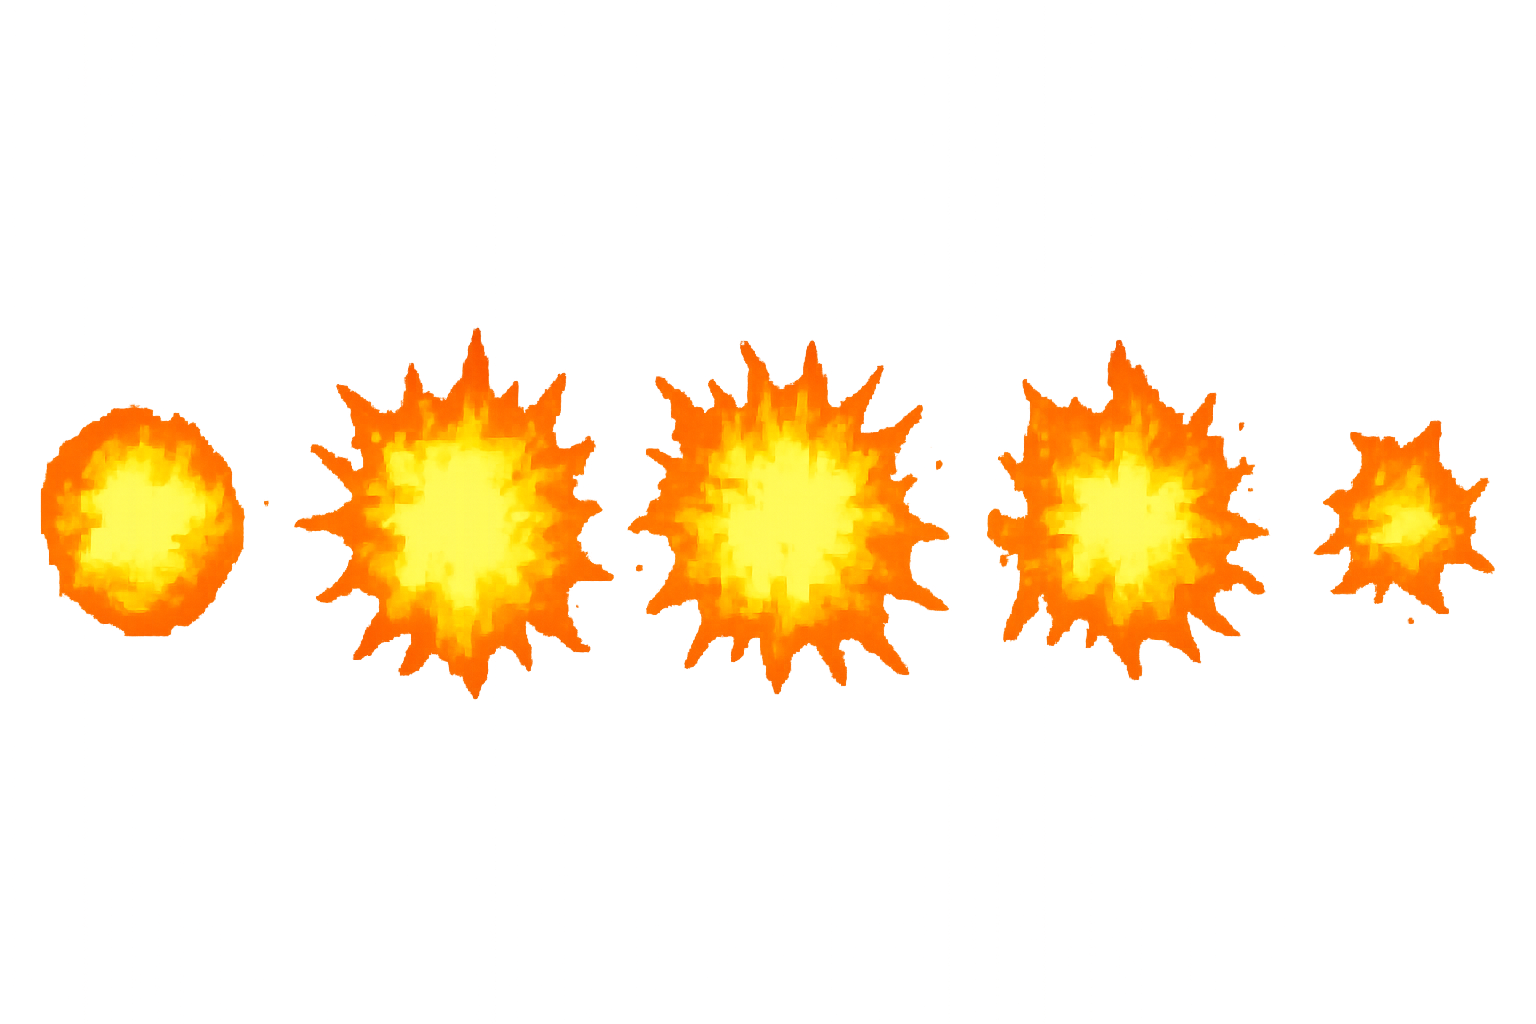
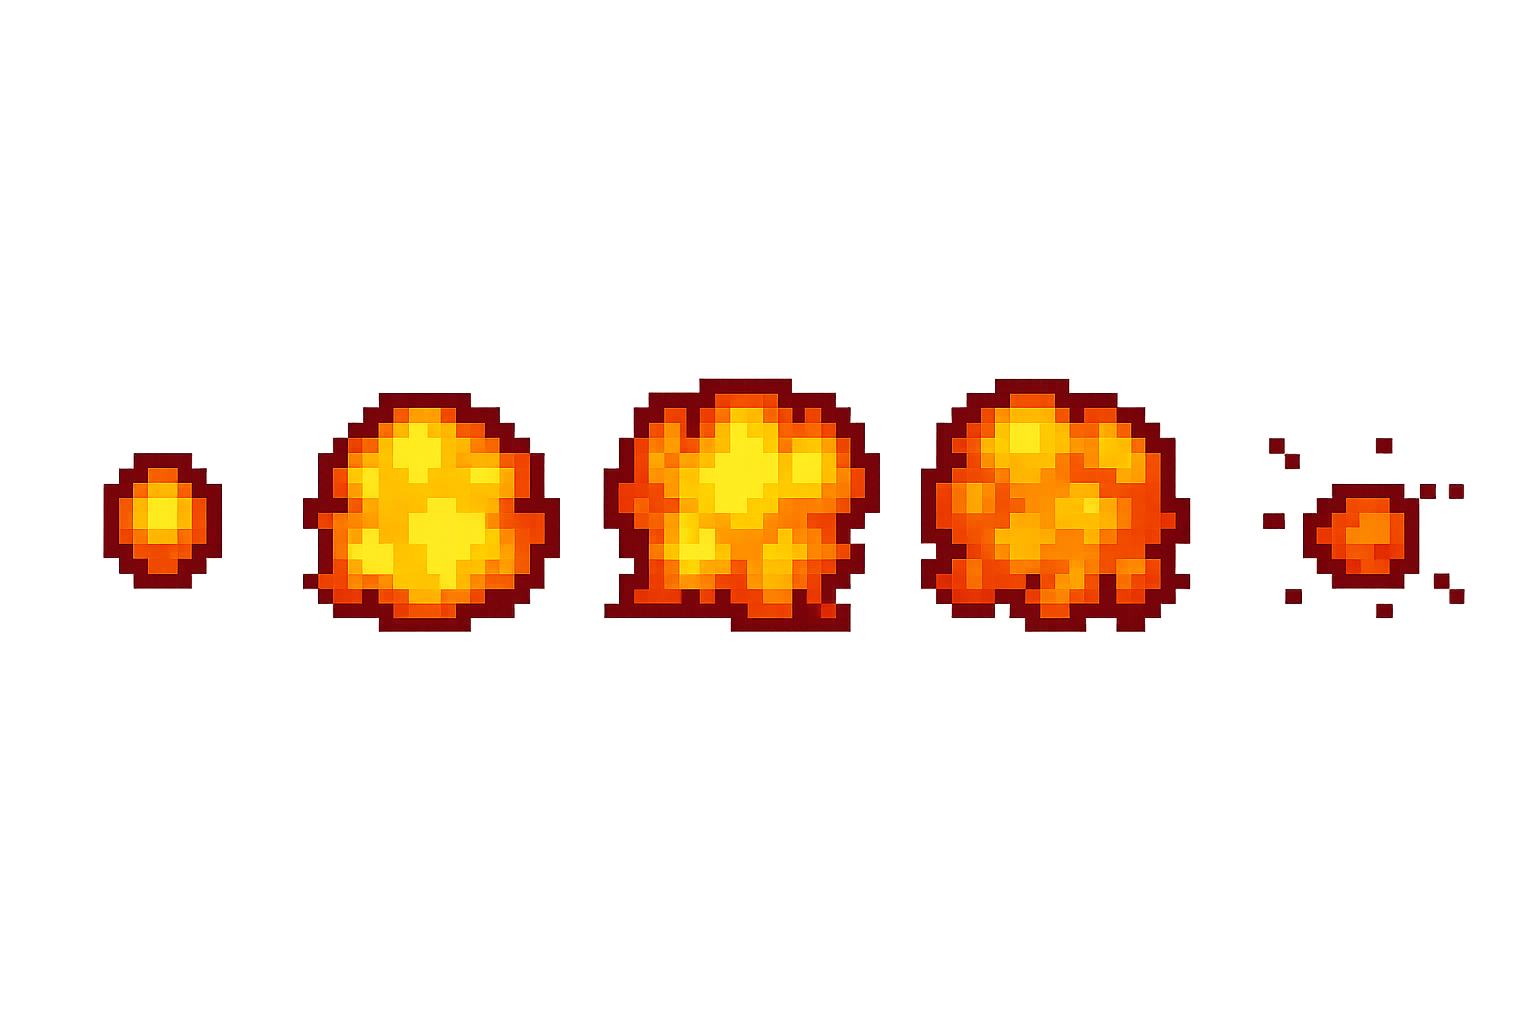
explosao arrumada
Nader Taha Murilo Godoy <naderat@al.insper.edu.br murilogz@al.insper.edu.br>

Changed region(s): [[0.1875, 0.3125, 0.9688, 0.6875], [0.0, 0.375, 0.1562, 0.625]]

diff --git a/Bombas/explosao.py b/Bombas/explosao.py
@@ -1,7 +1,7 @@
 import pygame
 
 class ExplosaoAerea(pygame.sprite.Sprite):
-    def __init__(self, center, spritesheet, colunas, linhas, tamanho=(80, 80)):
+    def __init__(self, center, spritesheet, colunas, linhas, tamanho=(80, 120)):
         super().__init__()
         self.frames = self.carregar_frames(spritesheet, colunas, linhas, tamanho)
         self.frame_atual = 0
